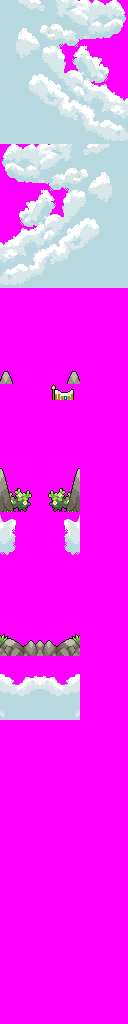
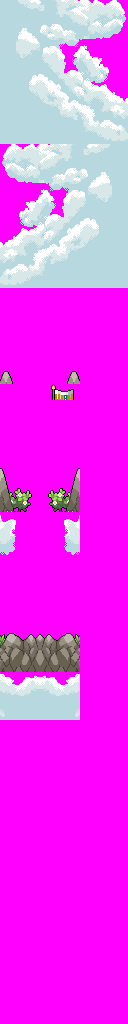
add fixes to mountain

Changed region(s): [[0.0, 0.5938, 0.625, 0.6562], [0.5, 0.375, 0.5625, 0.4062]]

diff --git a/src/tileset_anims.c b/src/tileset_anims.c
@@ -1889,11 +1889,12 @@ void InitTilesetAnim_EingRoom(void) {
 
 const u16 gTilesetAnims_DragonMountain2_Flag_Frame0[] = INCBIN_U16("data/tilesets/secondary/dragon_mountain_2/anim/flag/00.4bpp");
 const u16 gTilesetAnims_DragonMountain2_Flag_Frame1[] = INCBIN_U16("data/tilesets/secondary/dragon_mountain_2/anim/flag/01.4bpp");
+const u16 gTilesetAnims_DragonMountain2_Flag_Frame2[] = INCBIN_U16("data/tilesets/secondary/dragon_mountain_2/anim/flag/02.4bpp");
 
 const u16 *const gTilesetAnims_DragonMountain2_Flag[] = {
     gTilesetAnims_DragonMountain2_Flag_Frame0,
     gTilesetAnims_DragonMountain2_Flag_Frame1,
-    gTilesetAnims_DragonMountain2_Flag_Frame0,
+    gTilesetAnims_DragonMountain2_Flag_Frame2,
     gTilesetAnims_DragonMountain2_Flag_Frame1,
 };
 
